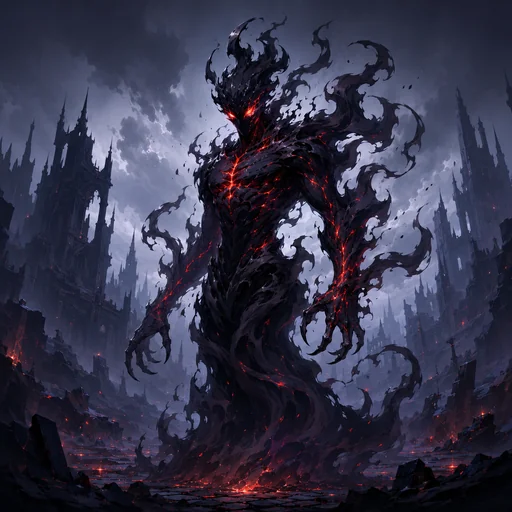
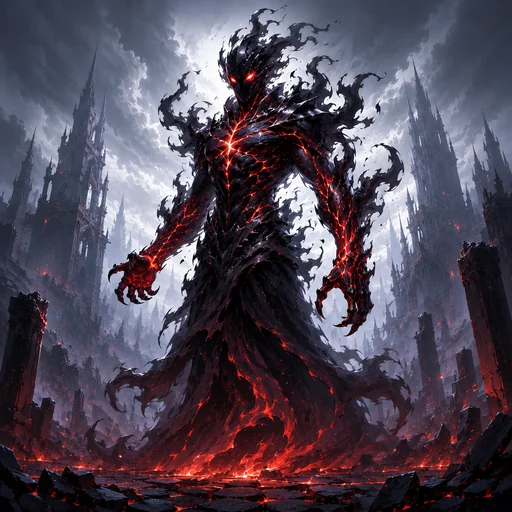
feat: Acid rework + remove Voracious Imp (#59)
- Acid: every 3 refreshes (was 4) consume a tavern minion AND buff the
  remaining tavern minions +1/+1 (golden: double consume + tavern +2/+2).
  onRollConsumeShop gains a tavernBuff param; consume is now conditional so
  the buff lands even on an all-Fodder shop. New Acid2 art.
- Remove Voracious Imp (the only fodderMult demon): delete the card + its
  CARD_REFERENCES entry; retarget the general consume tests to a vanilla
  Demon (Maw, x1); drop the golden-3x multiplier test. Not in the pool.

diff --git a/packages/sim/src/run.test.ts b/packages/sim/src/run.test.ts
@@ -409,21 +409,36 @@ describe('run loop (@game/sim)', () => {
     expect([bought?.attack, bought?.health]).toEqual([3, 3]); // base 1/1 + the +2/+2 run buff
   });
 
-  it('a Demon consuming buffed Fodder gains the buffed stats (×multiplier)', () => {
+  it('a Demon consuming buffed Fodder gains the buffed stats', () => {
     let s: RunState = {
       ...createRun(1),
       phase: 'combat',
-      board: [{ uid: 'imp', cardId: 'imp', tribe: 'demon', attack: 2, health: 2, keywords: ['CN'], golden: false }],
+      board: [{ uid: 'd', cardId: 'maw', tribe: 'demon', attack: 2, health: 2, keywords: ['CN'], golden: false }],
       cardBuffs: { fred: { attack: 2, health: 2 } },
       pendingTavern: ['fred'],
       lastCombat: { events: [], result: 'win', playerDamage: 0, playerDeathrattles: 0, enemyDeaths: 0, initial: { player: [], enemy: [] } },
     };
-    s = reduce(s, { type: 'resolveCombat' }); // advance → next tavern injects Fred → the Imp eats it
-    const imp = s.board.find((c) => c.cardId === 'imp');
-    // Voracious Imp eats a (1+2)/(1+2) Fred at ×2 → +6/+6 → 8/8
-    expect([imp?.attack, imp?.health]).toEqual([8, 8]);
+    s = reduce(s, { type: 'resolveCombat' }); // advance → next tavern injects Fred → the Demon eats it
+    const eater = s.board.find((c) => c.cardId === 'maw');
+    // The Demon eats a (1+2)/(1+2) Fred → +3/+3 → 5/5
+    expect([eater?.attack, eater?.health]).toEqual([5, 5]);
     // the consume record carries the Fodder's *buffed* stats (3/3) so the eat animation shows them
     expect(s.fodderEaten?.[0]).toMatchObject({ fodderId: 'fred', attack: 3, health: 3 });
+  });
+
+  it('Acid (reworked) — every 3 refreshes, consumes a tavern minion AND buffs the rest +1/+1', () => {
+    let s: RunState = {
+      ...createRun(1),
+      embers: 99,
+      board: [{ uid: 'ac', cardId: 'acid', tribe: 'demon', attack: 7, health: 7, keywords: ['CN'], golden: false }],
+    };
+    s = reduce(s, { type: 'roll' }); // rollTick 1
+    s = reduce(s, { type: 'roll' }); // rollTick 2
+    s = reduce(s, { type: 'roll' }); // rollTick 3 → Acid procs on the fresh shop
+    const acid = s.board.find((c) => c.cardId === 'acid')!;
+    expect(acid.attack + acid.health).toBeGreaterThan(14); // ate a tavern minion (gained its stats)
+    expect(s.shop.length).toBeGreaterThan(0);
+    expect(s.shop.every((o) => (o.atk ?? 0) >= 1 && (o.hp ?? 0) >= 1)).toBe(true); // the rest got +1/+1
   });
 
   it('a frozen tavern tops up empty slots + a missing spell after combat', () => {
@@ -902,29 +917,17 @@ describe('run loop (@game/sim)', () => {
     expect(s.board.some((c) => c.cardId === 'fred')).toBe(false);
   });
 
-  it('a Demon devours Fodder entering the tavern — Voracious Imp at 2x', () => {
+  it('a Demon devours Fodder entering the tavern', () => {
     let s: RunState = {
       ...createRun(1),
       embers: 3,
-      board: [{ uid: 'i', cardId: 'imp', tribe: 'demon', attack: 2, health: 2, keywords: ['CN'], golden: false }],
+      board: [{ uid: 'd', cardId: 'maw', tribe: 'demon', attack: 2, health: 2, keywords: ['CN'], golden: false }],
       pendingTavern: ['fred'],
     };
-    s = reduce(s, { type: 'roll' }); // tavern refresh injects the Fodder, then the Imp eats it
+    s = reduce(s, { type: 'roll' }); // tavern refresh injects the Fodder, then the Demon eats it
     expect(s.shop.some((o) => o.cardId === 'fred')).toBe(false); // eaten, not left in the tavern
-    const imp = s.board.find((c) => c.cardId === 'imp');
-    expect([imp?.attack, imp?.health]).toEqual([4, 4]); // 2/2 + 2×(1/1)
-  });
-
-  it('golden Voracious Imp eats Fodder at 3x', () => {
-    let s: RunState = {
-      ...createRun(1),
-      embers: 3,
-      board: [{ uid: 'i', cardId: 'imp', tribe: 'demon', attack: 4, health: 4, keywords: ['CN'], golden: true }],
-      pendingTavern: ['fred'],
-    };
-    s = reduce(s, { type: 'roll' });
-    const imp = s.board.find((c) => c.cardId === 'imp');
-    expect([imp?.attack, imp?.health]).toEqual([7, 7]); // 4/4 + 3×(1/1)
+    const eater = s.board.find((c) => c.cardId === 'maw');
+    expect([eater?.attack, eater?.health]).toEqual([3, 3]); // 2/2 + 1×(1/1)
   });
 
 
@@ -1585,7 +1588,7 @@ describe('run loop (@game/sim)', () => {
   it('Cupcakes — the chosen Demon consumes 3 random tavern minions (gains stats; tavern shrinks by 3)', () => {
     let s: RunState = {
       ...createRun(1), embers: 0,
-      board: [{ uid: 'd', cardId: 'imp', tribe: 'demon', attack: 2, health: 2, keywords: ['CN'], golden: false }], // Voracious Imp (2× consume)
+      board: [{ uid: 'd', cardId: 'maw', tribe: 'demon', attack: 2, health: 2, keywords: ['CN'], golden: false }], // a Demon eater
       shop: [{ uid: 'a', cardId: 'alley' }, { uid: 'b', cardId: 'pack' }, { uid: 'c', cardId: 'kennel' }, { uid: 'e', cardId: 'gnash' }],
       hand: [{ uid: 'sp', cardId: 'cupcakes', tribe: 'neutral', attack: 0, health: 1, keywords: [], golden: false }],
     };

diff --git a/packages/sim/src/recruit.ts b/packages/sim/src/recruit.ts
@@ -1098,19 +1098,23 @@ const RECRUIT_FACTORIES: Partial<Record<string, RecruitFn>> = {
     const every = num(params.every, 4);
     self.rollTick = (self.rollTick ?? 0) + 1;
     if (self.rollTick % every !== 0) return;
+    // Consume a random NON-Fodder tavern minion (gain its stats × golden).
     const choices = ctx.state.shop.filter((s) => {
       const def = CARD_INDEX[s.cardId];
       return def && !def.keywords.includes('FD');
     });
-    if (choices.length === 0) return;
-    const target = pickRandom(ctx.state, choices, 1)[0];
-    if (!target) return;
-    ctx.state.shop = ctx.state.shop.filter((s) => s !== target);
-    const def = CARD_INDEX[target.cardId];
-    if (!def) return;
-    const atkGain = (def.attack + (target.atk ?? 0)) * gold(self);
-    const hpGain = (def.health + (target.hp ?? 0)) * gold(self);
-    addBuff(self, nameOf(self), atkGain, hpGain);
+    const target = choices.length ? pickRandom(ctx.state, choices, 1)[0] : undefined;
+    if (target) {
+      ctx.state.shop = ctx.state.shop.filter((s) => s !== target);
+      const def = CARD_INDEX[target.cardId];
+      if (def) {
+        addBuff(self, nameOf(self), (def.attack + (target.atk ?? 0)) * gold(self), (def.health + (target.hp ?? 0)) * gold(self));
+      }
+    }
+    // Acid's rework: also buff the REMAINING tavern minions +tavernBuff/+tavernBuff (golden ×2) — a per-offer
+    // buff baked in on buy (like Apples), applied even if there was nothing to consume.
+    const tb = num(params.tavernBuff, 0) * gold(self);
+    if (tb > 0) for (const offer of ctx.state.shop) { offer.atk = (offer.atk ?? 0) + tb; offer.hp = (offer.hp ?? 0) + tb; }
   },
 
   /** Forsaken Weaver (recruit half) — when a spell is cast, give your Undead +N Attack wherever they are

diff --git a/packages/content/src/cards/demons.ts b/packages/content/src/cards/demons.ts
@@ -64,20 +64,6 @@ export const DEMONS: CardDef[] = [
     goldenText: '**Battlecry:** add **2** Fodder to your next tavern.',
   },
   {
-    id: 'imp',
-    name: 'Voracious Imp',
-    tribe: 'demon',
-    tier: 2,
-    attack: 2,
-    health: 2,
-    keywords: ['CN'],
-    fodderMult: 2,
-    effects: [],
-    text: 'Gains **2x** stats from Fodder.',
-    // Golden eats at 3× (fodderMultiplier = base + 1), not the naive 2× doubling — set it explicitly.
-    goldenText: 'Gains **3x** stats from Fodder.',
-  },
-  {
     id: 'brood',
     name: 'Brood Matron',
     tribe: 'demon',
@@ -141,9 +127,9 @@ export const DEMONS: CardDef[] = [
     attack: 7,
     health: 7,
     keywords: ['CN'],
-    effects: [{ on: 'onRoll', do: 'onRollConsumeShop', params: { every: 4 } }],
-    text: 'Every 4 refreshes, consume a random tavern minion.',
-    goldenText: 'Every 4 refreshes, consume a random tavern minion (gain **double** its stats).',
+    effects: [{ on: 'onRoll', do: 'onRollConsumeShop', params: { every: 3, tavernBuff: 1 } }],
+    text: 'Every 3 refreshes, consume a tavern minion and give tavern minions **+1/+1**.',
+    goldenText: 'Every 3 refreshes, consume a tavern minion (gain **double** its stats) and give tavern minions **+2/+2**.',
   },
   {
     id: 'trickster',

diff --git a/packages/ui/src/Recruit.tsx b/packages/ui/src/Recruit.tsx
@@ -77,7 +77,7 @@ function TurnRope() {
  *  *current* buffed Fodder for Ritualist & co). */
 const CARD_REFERENCES: Record<string, string[]> = {
   alley: ['stray'], shaper: ['stray'], pack: ['pup'], brood: ['impscrap'], combinator: ['cling', 'moneybot', 'betterbot'],
-  feed: ['fred'], imp: ['fred'], ritualist: ['fred', 'impscrap'], maw: ['fred'],
+  feed: ['fred'], ritualist: ['fred', 'impscrap'], maw: ['fred'],
   // Imp summoners / buffers — the popup shows the Imp token at its current buffed stats. Cards that touch
   // both Fodder and Imps (Ritualist, Bane, Fodder Feeder) reference both.
   impking: ['impscrap'], fodderfeeder: ['fred', 'impscrap'], bane: ['fred', 'impscrap'],

diff --git a/docs/devlog.md b/docs/devlog.md
@@ -5,6 +5,12 @@ queue lives in [roadmap.md](roadmap.md); high-level milestones in [../CLAUDE.md]
 
 ## 2026-06-26 (session 6)
 
+### feat: Acid rework + remove Voracious Imp
+
+- **Acid** reworked: now **every 3 refreshes** (was 4) it consumes a tavern minion **and buffs the remaining tavern minions +1/+1** (golden: double the consumed stats + tavern **+2/+2**). The `onRollConsumeShop` factory gained a `tavernBuff` param (golden ×2 via `gold(self)`); the consume became conditional so the tavern buff still lands even when there's nothing to consume. New **Acid2** art (`acid.webp` overwritten). Tier/stats unchanged (T6 7/7).
+- **Voracious Imp removed** — it was the only `fodderMult` demon. Deleted the card, its `CARD_REFERENCES` popup entry, and updated its tests: the general consume-on-roll + buffed-Fodder coverage was **retargeted to a vanilla Demon** (Maw, ×1); the golden-3× multiplier test was **dropped** (no multiplier card remains — `fodderMultiplier` now always returns 1, kept for a future re-add). Not in the opponent pool, so no regen.
+
+**Files:** `demons.ts` (Acid params/text; removed Voracious Imp), `recruit.ts` (`onRollConsumeShop` tavern buff), `Recruit.tsx` (`CARD_REFERENCES`), `run.test.ts` (Acid test + retargeted consume tests), art (`acid.webp`), `cards.csv` (81 minions now). **Verification:** typecheck + lint + test (389) + build:web green; a new test rolls 3× and asserts Acid eats a minion + the remaining offers each carry +1/+1.
 ### feat: Golden Touch + Consume spells; rename Point Solution → Resonance
 
 Three tavern-spell changes:

diff --git a/README.md b/README.md
@@ -25,6 +25,8 @@ New contributor? See **[ONBOARDING.md](ONBOARDING.md)** (clone → install → v
 
 _(Most recent first — the full history is in [docs/devlog.md](docs/devlog.md).)_
 
+- **Acid reworked; Voracious Imp removed.** Acid now triggers every 3 refreshes — consuming a tavern minion
+  and giving the rest +1/+1 (golden doubles both).
 - **Golden Touch + Consume spells; Point Solution renamed to Resonance.** Golden Touch gilds a random tavern
   minion (it buys in Golden, doubled); Consume has a Demon devour a random tavern minion (works with Yazzus).
 - **Four new tavern spells.** Lantern Light (+Tier/+Tier), Fodder Treatment (sell a minion into your left-most